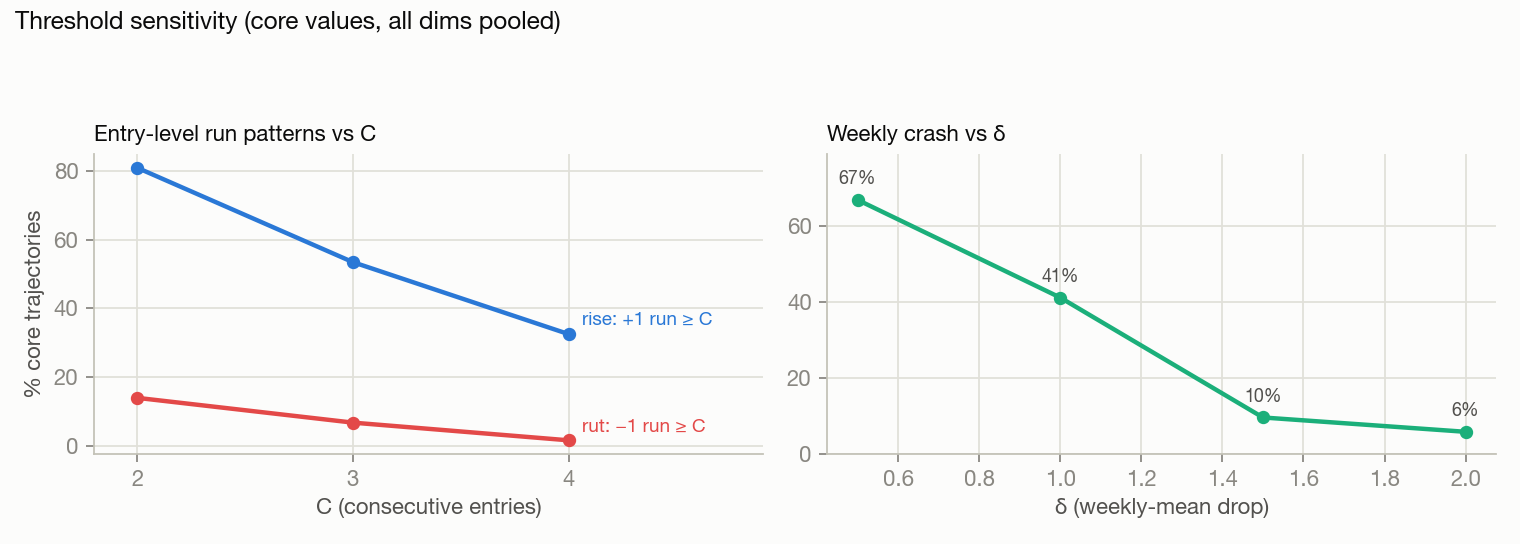
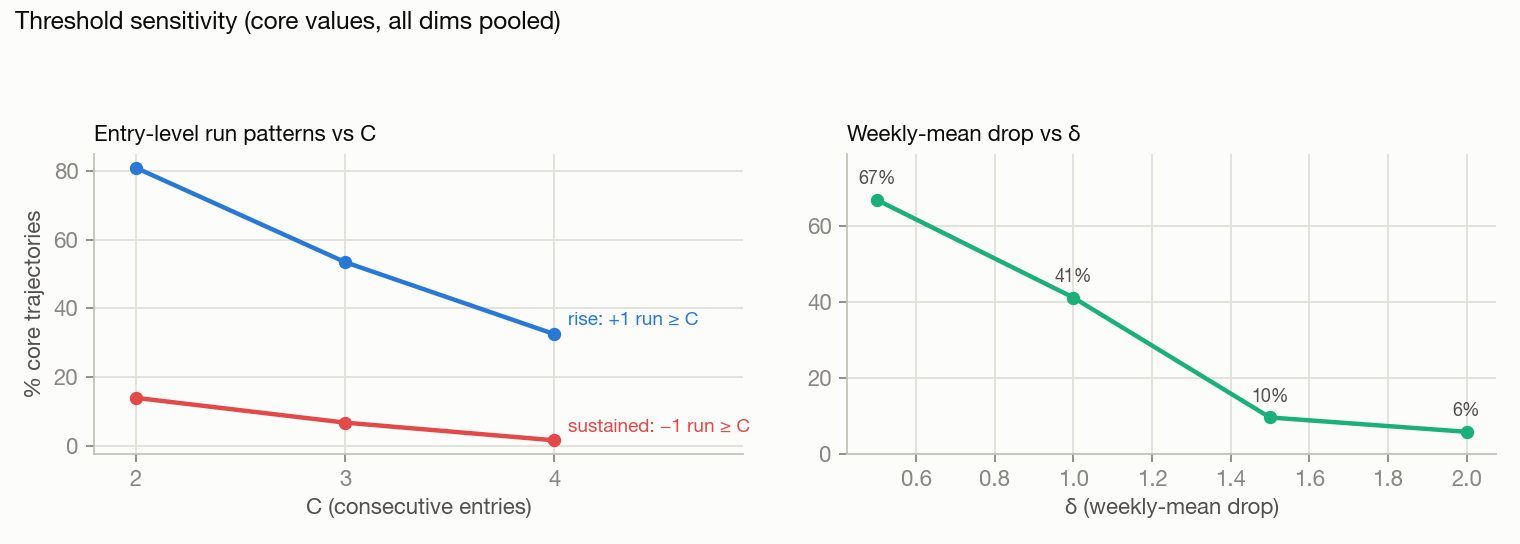
twinkl-hvlq: retire crash/rut terminology in drift EDA

diff --git a/scripts/drift/trajectory_eda.py b/scripts/drift/trajectory_eda.py
@@ -2,7 +2,7 @@
 
 Treats the draft drift taxonomy (docs/evolution/drift_detection.md) as a
 hypothesis menu, not a spec: measures per-dimension base rates of each
-candidate pattern (crash / rut / fade / rise / spike) across a parameter
+candidate pattern (dip / sustained conflict / fade / rise / spike) across a parameter
 grid, at entry-level and weekly granularity, gated by declared core values.
 Consensus labels are the default reference because the drift benchmark should
 target the more stable 5-pass labels, while still reporting persisted
@@ -82,7 +82,7 @@ def max_run(seq: list[int], val: int) -> int:
     return best
 
 
-def crash_events(seq: list[int]) -> list[tuple[int, int]]:
+def dip_events(seq: list[int]) -> list[tuple[int, int]]:
     """(index, severity) for transitions into -1; severity = size of drop."""
     return [
         (i, seq[i - 1] - seq[i])
@@ -100,12 +100,12 @@ def has_fade(seq: list[int], c_min: int) -> bool:
     return False
 
 
-def crash_recovers(seq: list[int], idx: int, within: int = 2) -> bool:
-    """Does the score return to >= 0 within `within` steps after a crash?"""
+def dip_recovers(seq: list[int], idx: int, within: int = 2) -> bool:
+    """Does the score return to >= 0 within `within` steps after a dip?"""
     return any(s >= 0 for s in seq[idx + 1 : idx + 1 + within])
 
 
-def weekly_rut(means: list[float], tau: float, c_min: int) -> bool:
+def weekly_low_mean(means: list[float], tau: float, c_min: int) -> bool:
     return max_run([1 if m < tau else 0 for m in means], 1) >= c_min
 
 
@@ -218,12 +218,12 @@ def pattern_grid(personas, core):
     def flags_for(fn):
         return {(p, d): fn(personas[p]["entry"][d]) for p in personas for d in DIMS}
 
-    add("crash_hard (+1→-1)", "entry", flags_for(
-        lambda s: any(sev == 2 for _, sev in crash_events(s))))
-    add("crash_any (0/+1→-1)", "entry", flags_for(
-        lambda s: len(crash_events(s)) > 0))
+    add("dip_hard (+1→-1)", "entry", flags_for(
+        lambda s: any(sev == 2 for _, sev in dip_events(s))))
+    add("dip_any (0/+1→-1)", "entry", flags_for(
+        lambda s: len(dip_events(s)) > 0))
     for c in (2, 3, 4):
-        add("rut (-1 run)", f"C={c}", flags_for(lambda s, c=c: max_run(s, -1) >= c))
+        add("sustained (-1 run)", f"C={c}", flags_for(lambda s, c=c: max_run(s, -1) >= c))
     for c in (2, 3):
         add("fade (+1→0s)", f"C={c}", flags_for(lambda s, c=c: has_fade(s, c)))
     for c in (2, 3, 4):
@@ -239,27 +239,27 @@ def pattern_grid(personas, core):
             for d in DIMS:
                 m = personas[p]["weekly"][d]["mean"]
                 fl[(p, d)] = any(m[i - 1] - m[i] >= delta for i in range(1, len(m)))
-        add("weekly crash (mean drop)", f"δ={delta}", fl)
+        add("weekly mean drop", f"δ={delta}", fl)
     for tau, c in [(-0.4, 2), (-0.4, 3), (-0.25, 2), (-0.25, 3)]:
         fl = {}
         for p in personas:
             for d in DIMS:
-                fl[(p, d)] = weekly_rut(personas[p]["weekly"][d]["mean"], tau, c)
-        add("weekly rut (mean<τ)", f"τ={tau},C={c}", fl)
+                fl[(p, d)] = weekly_low_mean(personas[p]["weekly"][d]["mean"], tau, c)
+        add("low-mean weeks (mean<τ)", f"τ={tau},C={c}", fl)
 
     return pl.DataFrame(rows)
 
 
 def spike_stats(personas, core):
-    """How often do crashes self-recover within 2 steps (spike = noise)?"""
+    """How often do dips self-recover within 2 steps (spike = noise)?"""
     out = {"all": [0, 0], "core": [0, 0]}  # [recovered, total]
     for p, data in personas.items():
         for d in DIMS:
             seq = data["entry"][d]
-            for idx, _sev in crash_events(seq):
+            for idx, _sev in dip_events(seq):
                 if idx + 1 >= len(seq):
-                    continue  # crash at trajectory end: recovery unobservable
-                rec = crash_recovers(seq, idx)
+                    continue  # dip at trajectory end: recovery unobservable
+                rec = dip_recovers(seq, idx)
                 out["all"][1] += 1
                 out["all"][0] += rec
                 if d in core[p]:
@@ -348,10 +348,10 @@ def persona_coverage(personas, core):
     """Share of personas flagged on >=1 core dim, per pattern/param."""
     rows = []
     defs = {
-        ("crash_hard (+1→-1)", "entry"): lambda s: any(sev == 2 for _, sev in crash_events(s)),
-        ("crash_any (0/+1→-1)", "entry"): lambda s: len(crash_events(s)) > 0,
-        ("rut (-1 run)", "C=2"): lambda s: max_run(s, -1) >= 2,
-        ("rut (-1 run)", "C=3"): lambda s: max_run(s, -1) >= 3,
+        ("dip_hard (+1→-1)", "entry"): lambda s: any(sev == 2 for _, sev in dip_events(s)),
+        ("dip_any (0/+1→-1)", "entry"): lambda s: len(dip_events(s)) > 0,
+        ("sustained (-1 run)", "C=2"): lambda s: max_run(s, -1) >= 2,
+        ("sustained (-1 run)", "C=3"): lambda s: max_run(s, -1) >= 3,
         ("fade (+1→0s)", "C=2"): lambda s: has_fade(s, 2),
     }
     for (pattern, param), fn in defs.items():
@@ -434,12 +434,12 @@ def fig_trajectories(personas, core):
 def fig_prevalence(grid: pl.DataFrame):
     """Per-dimension core-gated prevalence, one panel per pattern."""
     panels = [
-        ("crash_any (0/+1→-1)", "entry", "Crash into −1 (any)"),
-        ("rut (-1 run)", "C=2", "Rut: ≥2 consecutive −1"),
+        ("dip_any (0/+1→-1)", "entry", "Dip into −1 (any)"),
+        ("sustained (-1 run)", "C=2", "Sustained: ≥2 consecutive −1"),
         ("fade (+1→0s)", "C=2", "Fade: +1 then ≥2 zeros"),
         ("never +1 (n>=3)", "entry", "Never +1 (onboarding gap)"),
     ]
-    # one fixed dim order across panels, sorted by crash prevalence
+    # one fixed dim order across panels, sorted by dip prevalence
     first = grid.filter(
         (pl.col("pattern") == panels[0][0]) & (pl.col("param") == panels[0][1])
     ).with_columns(pct=pl.col("core_hits") / pl.col("core_n") * 100).sort("pct")
@@ -475,7 +475,7 @@ def fig_cliffs(grid: pl.DataFrame):
 
     ax = axes[0]
     for pattern, color, label in [
-        ("rut (-1 run)", RED, "rut: −1 run ≥ C"),
+        ("sustained (-1 run)", RED, "sustained: −1 run ≥ C"),
         ("rise (+1 run)", BLUE, "rise: +1 run ≥ C"),
     ]:
         sub = (grid.filter(pl.col("pattern") == pattern)
@@ -494,7 +494,7 @@ def fig_cliffs(grid: pl.DataFrame):
     ax.set_title("Entry-level run patterns vs C", fontsize=10, loc="left")
 
     ax = axes[1]
-    sub = (grid.filter(pl.col("pattern") == "weekly crash (mean drop)")
+    sub = (grid.filter(pl.col("pattern") == "weekly mean drop")
            .group_by("param").agg(pl.col("core_hits").sum(), pl.col("core_n").sum())
            .sort("param"))
     deltas = [float(p.split("=")[1]) for p in sub["param"]]
@@ -505,7 +505,7 @@ def fig_cliffs(grid: pl.DataFrame):
     ax.plot(deltas, pct, color=AQUA, marker="o", markersize=5, linewidth=2)
     ax.set_ylim(0, max(pct) * 1.18)
     ax.set_xlabel("δ (weekly-mean drop)")
-    ax.set_title("Weekly crash vs δ", fontsize=10, loc="left")
+    ax.set_title("Weekly-mean drop vs δ", fontsize=10, loc="left")
     for x, y in zip(deltas, pct):
         ax.annotate(f"{y:.0f}%", (x, y), textcoords="offset points",
                     xytext=(0, 7), fontsize=8, color=INK2, ha="center")
@@ -613,11 +613,11 @@ def main():
 
     # key grid slices for the report
     for pattern, param in [
-        ("crash_any (0/+1→-1)", "entry"), ("crash_hard (+1→-1)", "entry"),
-        ("rut (-1 run)", "C=2"), ("rut (-1 run)", "C=3"),
+        ("dip_any (0/+1→-1)", "entry"), ("dip_hard (+1→-1)", "entry"),
+        ("sustained (-1 run)", "C=2"), ("sustained (-1 run)", "C=3"),
         ("fade (+1→0s)", "C=2"), ("rise (+1 run)", "C=3"),
         ("all-neutral", "entry"), ("never +1 (n>=3)", "entry"),
-        ("weekly crash (mean drop)", "δ=1.0"), ("weekly rut (mean<τ)", "τ=-0.4,C=2"),
+        ("weekly mean drop", "δ=1.0"), ("low-mean weeks (mean<τ)", "τ=-0.4,C=2"),
     ]:
         sub = grid.filter((pl.col("pattern") == pattern) & (pl.col("param") == param))
         tot_all = sub["all_hits"].sum(), sub["all_n"].sum()

diff --git a/docs/drift/trajectory_eda.md b/docs/drift/trajectory_eda.md
@@ -8,9 +8,10 @@
 
 The team is deciding how to define and quantify drift. The drift-detection docs
 (`docs/evolution/drift_detection.md`, `docs/evals/drift_detection_eval.md`) are
-**not final**; this EDA treats their signal taxonomy (crash / rut / fade / rise /
-spike) as a **hypothesis menu** and measures the base rate of each candidate
-pattern in the judge-label reference data.
+**not final**; this EDA treats their signal taxonomy as a **hypothesis menu**
+and measures the base rate of each candidate pattern (single-entry dips,
+sustained conflict runs, fades, rises, spikes) in the judge-label reference
+data.
 
 This version uses the 5-pass **consensus reference** as the default decision
 table, with persisted single-pass judge labels shown side-by-side where the
@@ -36,7 +37,7 @@ class balance through benchmark construction.
 ### F1 — Timelines are short, so v1 should avoid multi-week machinery
 
 The runtime-compatible weekly bins give a median of **5 active weeks** per
-persona. A 3-week rut is still most of the observed life for the median persona,
+persona. A 3-week low period is still most of the observed life for the median persona,
 and a baseline-vs-recent comparison has little room to breathe.
 
 The practical answer is not to abandon the weekly Coach. It is to separate the
@@ -45,18 +46,18 @@ two layers:
 - **Detection evidence:** rolling entry-level evidence over recent entries.
 - **Delivery cadence:** weekly Coach digest.
 
-That keeps the product cadence while avoiding a fragile weekly-rut definition.
+That keeps the product cadence while avoiding fragile multi-week low-mean definitions.
 
-### F2 — Crashes are common but mostly transient
+### F2 — Dips into conflict are common but mostly transient
 
-| Crash definition | % of core trajectories | Personas with >=1 core crash |
+| Dip definition | % of core trajectories | Personas with >=1 core dip |
 |---|---:|---:|
 | any transition into -1 (from 0/+1) | 34.9% (102/292) | 92/204 = 45.1% |
-| hard crash only (+1 -> -1) | 25.0% (73/292) | 70/204 = 34.3% |
+| hard dip only (+1 -> -1) | 25.0% (73/292) | 70/204 = 34.3% |
 
-But **84.4% of core-dim crash events recover to >= 0 within 2 steps** (114/135;
-90.6% across all dims, 434/479). A crash-only definition would mostly count
-single-entry dips. Any usable definition needs persistence.
+But **84.4% of core-dim dip events recover to >= 0 within 2 entries** (114/135;
+90.6% across all dims, 434/479). A dip-only definition would mostly count
+single-entry blips. Any usable definition needs persistence.
 
 ### F3 — Sustained negativity is rare, and thresholds cliff quickly
 
@@ -68,7 +69,7 @@ On declared core values:
 | Pattern | C=2 | C=3 | C=4 |
 |---|---:|---:|---:|
 | -1 run >= C | 14.0% (41/292), 40 personas | 6.8% (20/292), 20 personas | 1.7% (5/292) |
-| weekly rut (mean < -0.4, >= C runtime weeks) | 7.5% (22/292) | too thin for v1 | too thin for v1 |
+| low-mean weeks (mean < -0.4, >= C runtime weeks) | 7.5% (22/292) | too thin for v1 | too thin for v1 |
 | fade: +1 then >= C zeros | 31.2% (91/292), 72 personas | 11.3% (33/292) | parked |
 
 Every extra step of persistence sharply reduces the positive class. **Two
@@ -88,7 +89,7 @@ This matches how the synthetic data was generated: per-entry variation, not
 long scripted arcs. Consequences:
 
 - The current data can support a sustained-conflict definition.
-- It cannot validate fade/evolution/slow-rut concepts without new arc-scripted
+- It cannot validate fade/evolution/slow-decline concepts without new arc-scripted
   generation.
 - Evolution-vs-drift remains parked for later.
 
@@ -108,7 +109,7 @@ definition.
 
 ![Per-dimension prevalence, core-gated](figures/fig3_prevalence_core.png)
 
-Crash into -1 on core dims ranges from **Power 59% (22/37)** and Hedonism 58%
+Dips into -1 on core dims range from **Power 59% (22/37)** and Hedonism 58%
 down to **Conformity 14% (4/28)**. Sustained conflict (C=2) ranges from Power
 32% and Universalism 28% down to Tradition 0%. A single global threshold will
 over-represent Power/Hedonism/Universalism personas in the benchmark. Keep this
@@ -141,8 +142,8 @@ Full list: [`tables/crisis_week_candidates.csv`](tables/crisis_week_candidates.c
 1. **Feasible on current data:** a core-gated, persistence-based definition:
    strict two consecutive -1 consensus reference labels on a declared core
    value.
-2. **Not supportable for v1:** crash-only alerts, fade/dormancy, peripheral
-   value rise, value evolution, and multi-week chronic rut. The current data
+2. **Not supportable for v1:** single-entry dip alerts, fade/dormancy, peripheral
+   value rise, value evolution, and multi-week chronic low periods. The current data
    does not contain clean long arcs.
 3. **Architecture choice:** the label benchmark can be hard and strict, but the
    runtime detector should consume soft evidence. Two hard argmax -1 predictions
@@ -154,7 +155,8 @@ Full list: [`tables/crisis_week_candidates.csv`](tables/crisis_week_candidates.c
 ## Top-3 recommendations for a single drift definition (de-scoped)
 
 Scope decision: v1 uses **one** definition of drift: sustained conflict with a
-declared core value. No crash+rut split. No fade/rise/evolution machinery. Build
+declared core value. No separate single-entry vs multi-week pattern taxonomy.
+No fade/rise/evolution machinery. Build
 the end-to-end path first; expand only if time remains.
 
 | # | Label-side reference definition | Consensus impact | Persisted-label comparison | One-line case |
@@ -181,7 +183,7 @@ Layer split:
 | Label benchmark | strict 2 consecutive consensus -1 labels on a declared core/high-weight value |
 | Runtime detector | rolling soft P(-1) evidence mass, not two hard argmax -1 predictions |
 | Delivery | weekly Coach digest with cited entries |
-| Parked scope | single-entry crash alerts, fade/dormancy, peripheral-value rise, onboarding-gap messaging, evolution gating, multi-week weekly ruts |
+| Parked scope | single-entry dip alerts, fade/dormancy, peripheral-value rise, onboarding-gap messaging, evolution gating, multi-week low-mean definitions |
 
 Why this is the right v1:
 